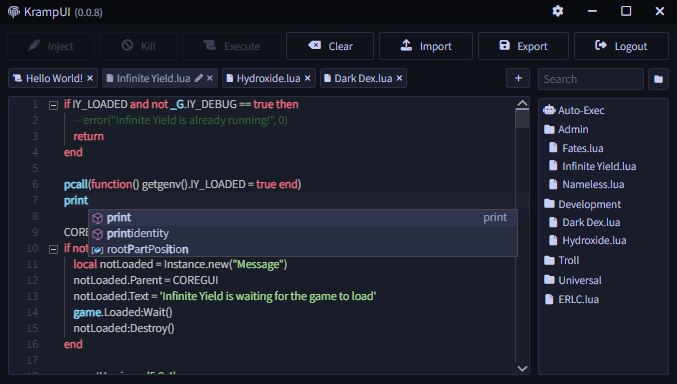
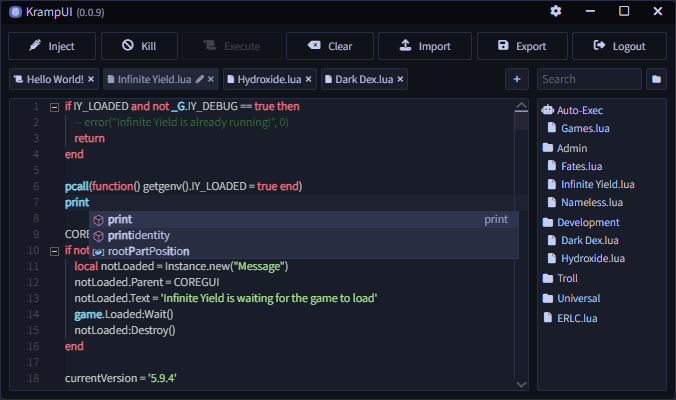
0.0.9

diff --git a/src/assets/styles.css b/src/assets/styles.css
@@ -207,8 +207,7 @@ body > .container > *:not(.active):not(.kr-titlebar) {
 }
 
 .kr-titlebar .image {
-    width: 0.75rem;
-    height: 0.75rem;
+    width: 0.8rem;
 }
 
 .kr-titlebar .text {
@@ -249,7 +248,7 @@ body > .container > *:not(.active):not(.kr-titlebar) {
     align-items: center;
     justify-content: center;
     height: calc(100vh - 24px);
-    gap: 1rem;
+    gap: 1.25rem;
 }
 
 .login .title {
@@ -257,7 +256,7 @@ body > .container > *:not(.active):not(.kr-titlebar) {
     align-items: center;
     user-select: none;
     -webkit-user-drag: none;
-    gap: 1rem;
+    gap: 0.75rem;
 }
 
 .login .title .text {
@@ -266,18 +265,9 @@ body > .container > *:not(.active):not(.kr-titlebar) {
 }
 
 .login .title .image {
-    border: 1px solid var(--lighter);
     border-radius: 2.5px;
-    padding: 0.35rem;
     box-sizing: border-box;
-    width: 2.5rem;
-}
-
-.login .form {
-    display: flex;
-    flex-direction: column;
-    gap: 1rem;
-    max-width: 30rem;
+    width: 2rem;
 }
 
 /* Exploit */

diff --git a/src/index.html b/src/index.html
@@ -17,7 +17,7 @@
         <div class="brand">
           <img class="image" src="./assets/icon.png">
           <p class="text">KrampUI</p>
-          <p class="version">(0.0.8)</p>
+          <p class="version">(0.0.9)</p>
         </div>
         <div class="buttons">
           <div class="kr-dropdown left">
